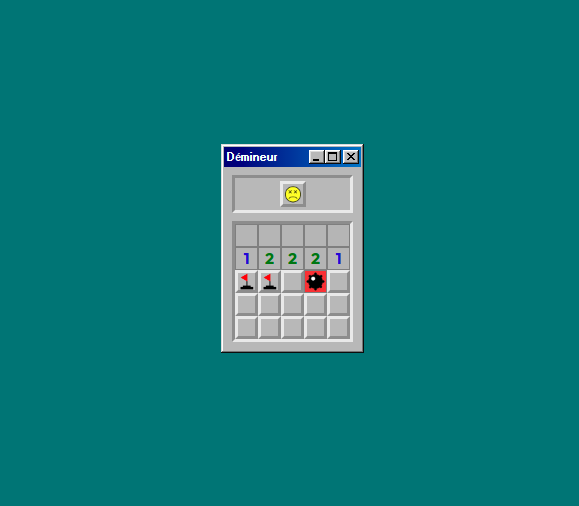
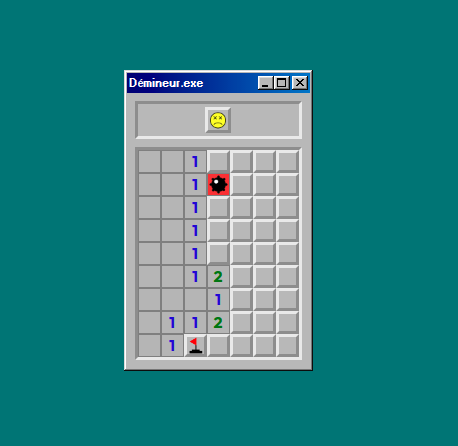
new pic for md

Changed region(s): [[0.2445, 0.1457, 0.7031, 0.8453]]

diff --git a/js/app.js b/js/app.js
@@ -1,10 +1,10 @@
 
 let game = {
     sizeGame: {
-        y: 5,
-        x: 5,
+        y: 7,
+        x: 9,
     },
-    nbOfBomb: 5,
+    nbOfBomb: 10,
     bomb: [],
     nbOfClick: 0,
     nbMaxClick: 0,
@@ -153,7 +153,7 @@ let game = {
                 game.nbOfClick++;  
                 game.winGame()
                 event.target.dataset.click = 'false';
-            }
+            
 
             if (game.isBomb(event.target.dataset.x, event.target.dataset.y)) {
                 event.target.classList.add('bomb');
@@ -165,7 +165,9 @@ let game = {
                 event.target.classList.add('safe');
 
                 if (nbDeBomb === 0) {
-                    game.erase(event.target.dataset.x,event.target.dataset.y);
+                  // console.log("zero");
+                   //game.erase(parseInt(event.target.dataset.x), parseInt(event.target.dataset.y));
+
                 }
                 if (nbDeBomb > 0) {
                     event.target.innerHTML = nbDeBomb;
@@ -175,6 +177,7 @@ let game = {
 
 
             }
+         }
         }
     },
     colorNumber: (nbDeBomb) => {
@@ -195,11 +198,25 @@ let game = {
 
     },
     erase: (x,y) => {
-        
+ //console.log("erase");
+        game.cssList(x-1,y-1);
+        game.cssList(x-1,y);
+        game.cssList(x-1,y+1);
+
+        game.cssList(x,y-1);
+        game.cssList(x,y+1);
+
+        game.cssList(x+1,y-1);
+        game.cssList(x+1,y);
+        game.cssList(x+1,y+1);
+
+       
 
     },
 
     cssList: (x,y) => {
+        let nbDeBomb = game.isProxi(x,y)
+        //console.log('nbBomb',nbDeBomb);
 
         const cell = document.getElementsByClassName('cell--box');
 
@@ -210,7 +227,18 @@ let game = {
 
             if (parseInt(cell[i].dataset.x) == x && parseInt(cell[i].dataset.y) == y) {
                
-                console.log(cell[i].classList.add('safe'));
+                cell[i].classList.add('safe');
+                
+
+                if (nbDeBomb === 0) {
+                  //game.erase(cell[i].dataset.x,cell[i].dataset.y)
+                }
+                if (nbDeBomb > 0) {
+                    cell[i].innerHTML = nbDeBomb;
+                }
+
+                cell[i].classList.add(game.colorNumber(nbDeBomb));
+                
         
             }
         }  
@@ -226,7 +254,7 @@ let game = {
 
     winGame: () => {
 
-       //console.log(game.nbOfClick);
+       console.log(game.nbOfClick);
         if (game.nbOfClick === game.nbMaxClick) {
             game.gameOver = true;
             const board = document.querySelector('#board');

diff --git a/index.html b/index.html
@@ -18,7 +18,7 @@
 <body>
     <div class="window" >
         <div class="title-bar">
-          <div class="title-bar-text">Démineur</div>
+          <div class="title-bar-text">Démineur.exe</div>
           <div class="title-bar-controls">
             <button aria-label="Minimize"></button>
             <button aria-label="Maximize"></button>
